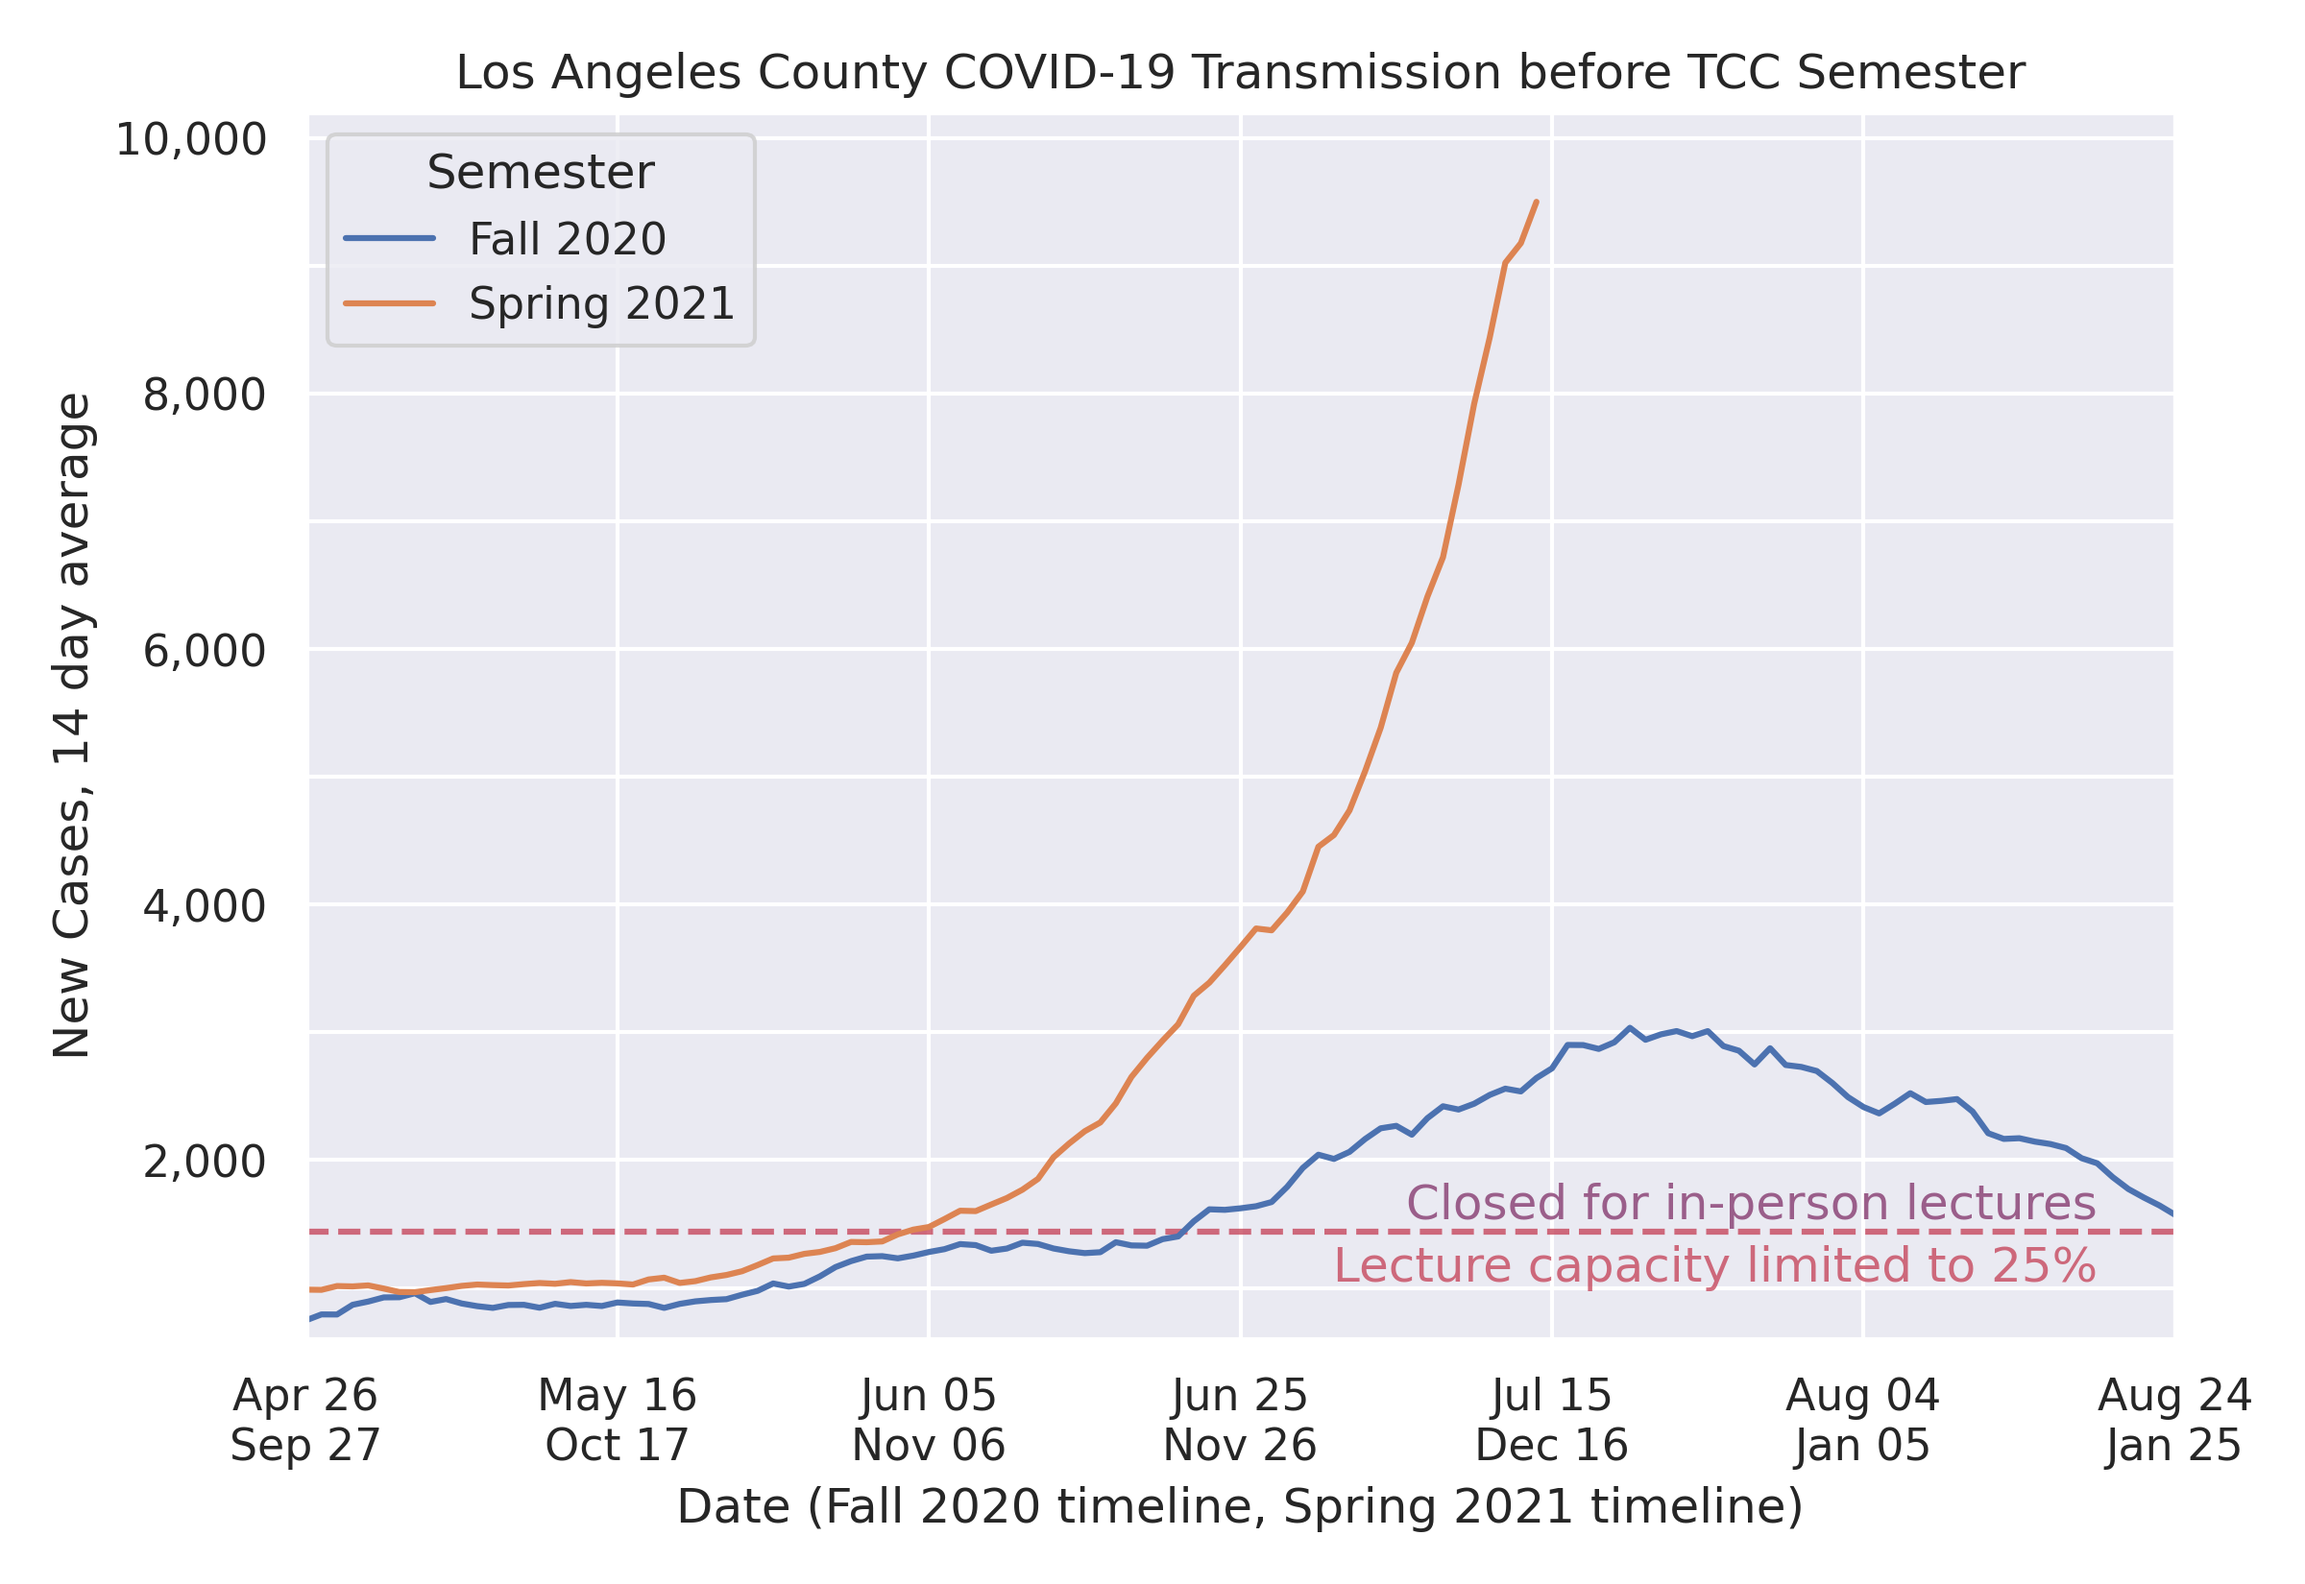
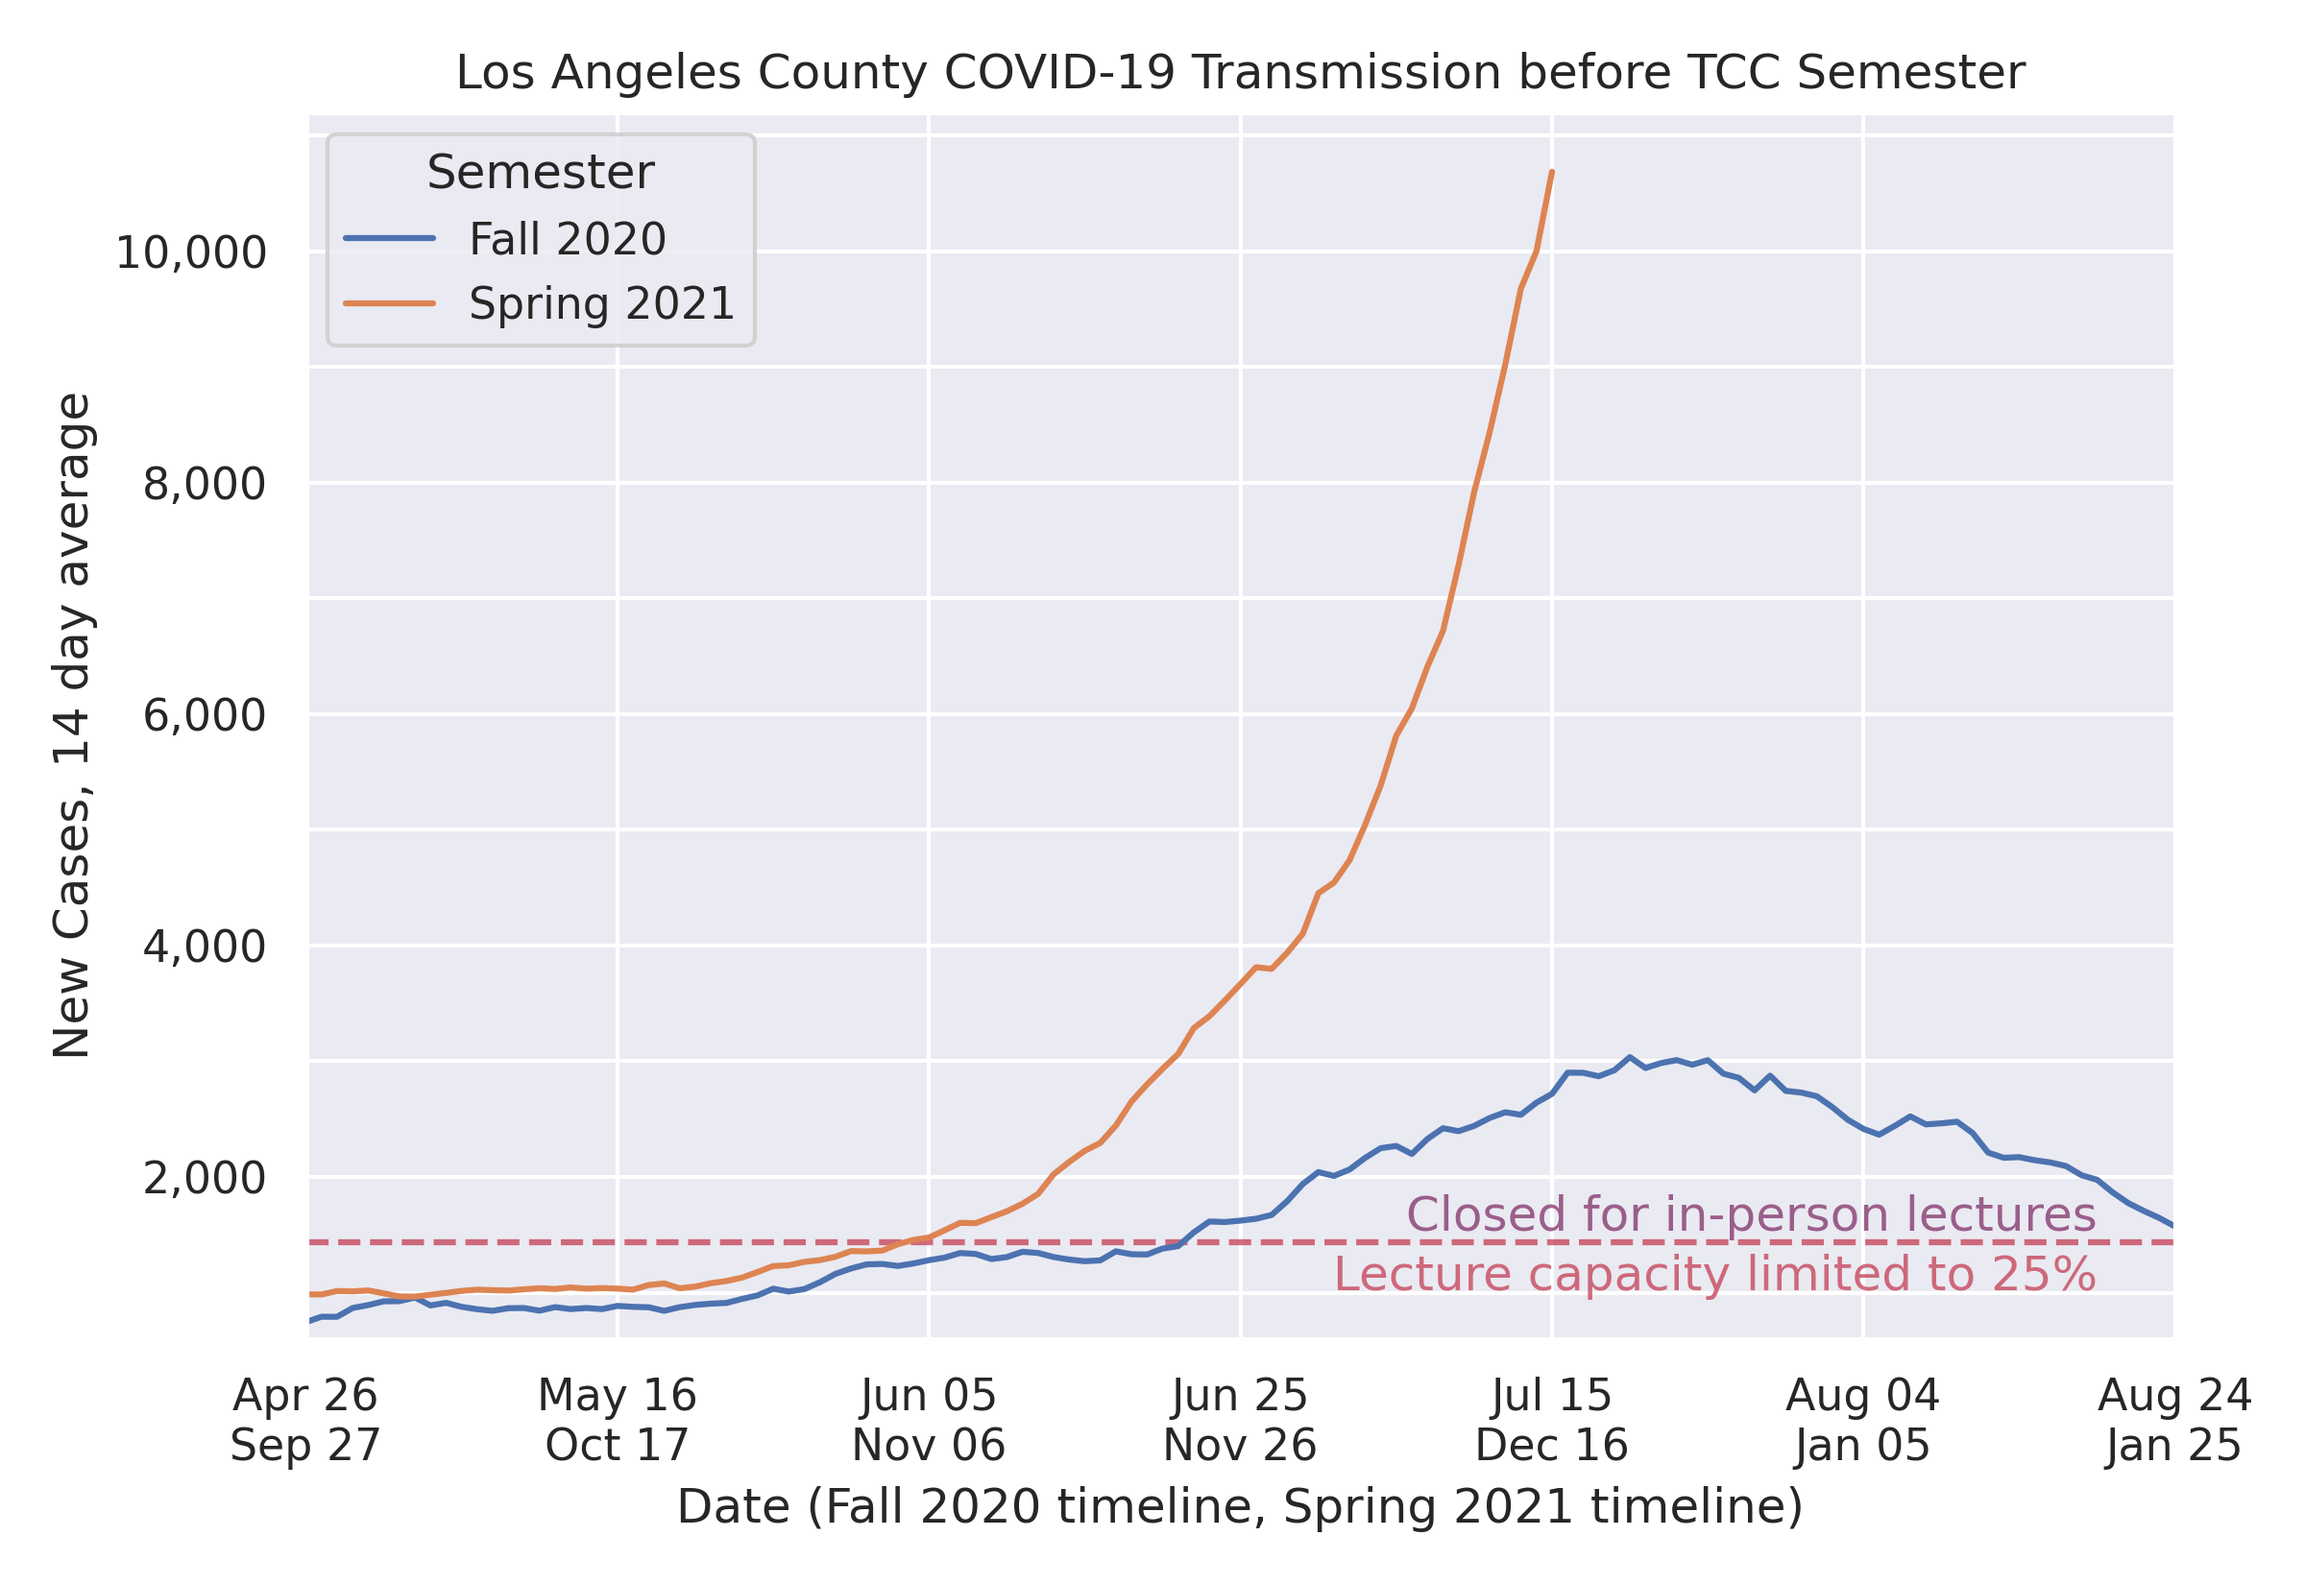
Update 2020-12-17

diff --git a/semester_start_countdown.py b/semester_start_countdown.py
@@ -128,6 +128,10 @@ la_cases.loc[220, NEW_CASES] = la_cases.loc[220, NEW_CASES] - 600
 la_cases.loc[249, NEW_CASES] = la_cases.loc[249, NEW_CASES] + 1500
 la_cases.loc[250, NEW_CASES] = la_cases.loc[250, NEW_CASES] - 1500
 
+# 7,000 backlog reported on December 16
+la_cases.loc[271, NEW_CASES] = la_cases.loc[271, NEW_CASES] + 7000
+la_cases.loc[273, NEW_CASES] = la_cases.loc[273, NEW_CASES] - 7000
+
 la_cases[NEW_CASES_AVG] = la_cases.loc[:, NEW_CASES].rolling(CASE_ROLLING_WINDOW).mean()
 
 df_hospitalized = pd.read_csv(CA_HOSPITALIZED_CSV).rename(columns={'todays_date': DATE})
